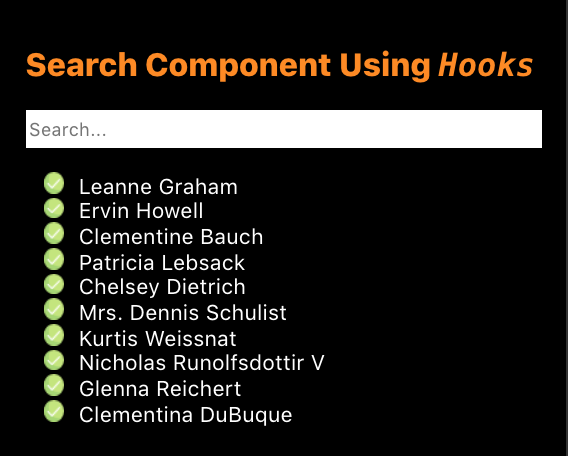
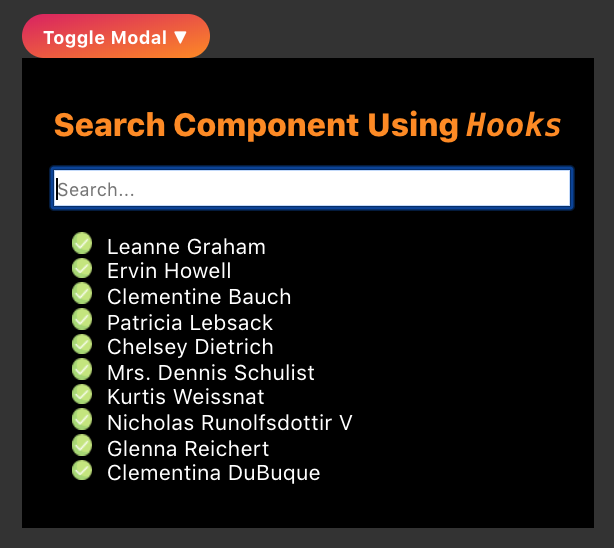
implemeted toggle functionality

diff --git a/src/App.js b/src/App.js
@@ -5,6 +5,7 @@ import './App.css';
 export default function App () {
     const [users, setUsers] = useState([]);
     const [filteredUsers, setFilteredUsers] = useState([]);
+    const [show, setShow] = useState(false);
 
     useEffect(() => {
         axios('https://jsonplaceholder.typicode.com/users')
@@ -32,22 +33,33 @@ export default function App () {
       setFilteredUsers(filteredUsers)
     };
 
-    return (
-        <div className="name">
-            <h2>Search Component Using <code>Hooks</code></h2>
-            <input type='text'
-                   autoFocus
-                   placeholder='Search...'
-                   onChange={handleInputChange} />
+    const toggleList = () => {
+        setShow(!show)
+    };
 
-            <ul>
-                {filteredUsers.map(user => (
-                    <li key={user.name}
-                        value={user.name} >
-                        {user.name}
-                    </li>
-                ))}
-            </ul>
+    return (
+        <div>
+            <button onClick={toggleList}>
+                Toggle Modal ▼
+            </button>
+            {show &&
+            <div className="name">
+                <h2>Search Component Using <code>Hooks</code></h2>
+                <input type='text'
+                       autoFocus
+                       placeholder='Search...'
+                       onChange={handleInputChange} />
+
+                <ul>
+                    {filteredUsers.map(user => (
+                        <li key={user.name}
+                            value={user.name} >
+                            {user.name}
+                        </li>
+                    ))}
+                </ul>
+            </div>
+            }
         </div>
     )
 }
